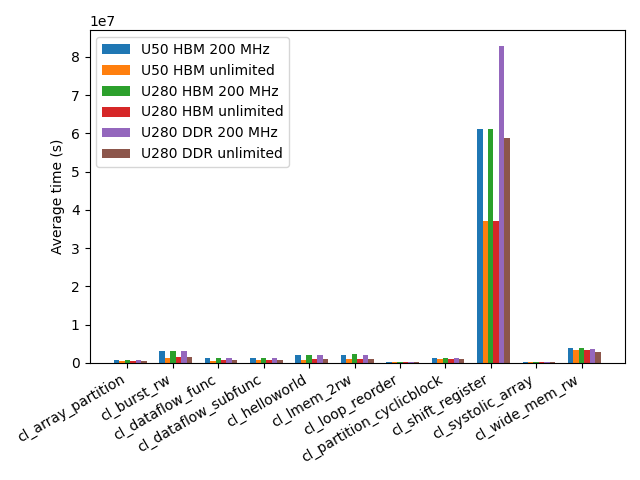
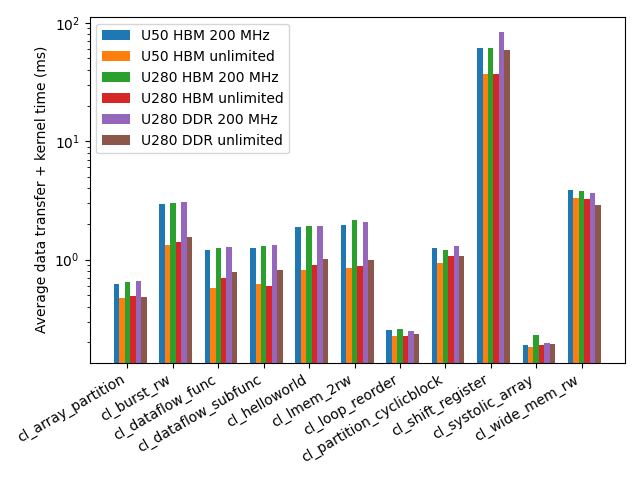
Adjust y axis for execution time

diff --git a/performance/execution-time.py b/performance/execution-time.py
@@ -14,6 +14,7 @@ df_u280_ddr_fast = pd.read_csv("../data/u280-ddr-fast-vitis.csv", skipinitialspa
 
 for df in [df_u50_slow, df_u50_fast, df_u280_slow, df_u280_fast, df_u280_ddr_slow, df_u280_ddr_fast]:
     df["transfer+kernel"] = df["data_to_fpga_average"] + df["kernel_average"] + df["data_to_host_average"]
+    df["transfer+kernel"] /= 1_000_000
 
 bar_width = 0.12
 app_names = df_u50_slow["app_name"].values
@@ -28,7 +29,7 @@ plt.bar(x + 2 * bar_width, df_u280_ddr_slow["average"].values, width=bar_width, 
 plt.bar(x + 3 * bar_width, df_u280_ddr_fast["average"].values, width=bar_width, label="U280 DDR unlimited")
 
 plt.xticks(x, app_names, rotation=30, ha="right")
-plt.ylabel("Average time (s)")
+plt.ylabel("Average total execution time (s)")
 # plt.ylim(top=20)
 # plt.yscale("log")
 plt.legend()
@@ -48,9 +49,9 @@ plt.bar(x + 2 * bar_width, df_u280_ddr_slow["transfer+kernel"].values, width=bar
 plt.bar(x + 3 * bar_width, df_u280_ddr_fast["transfer+kernel"].values, width=bar_width, label="U280 DDR unlimited")
 
 plt.xticks(x, app_names, rotation=30, ha="right")
-plt.ylabel("Average time (s)")
+plt.ylabel("Average data transfer + kernel time (ms)")
 # plt.ylim(top=20)
-# plt.yscale("log")
+plt.yscale("log")
 plt.legend()
 plt.tight_layout()
 
